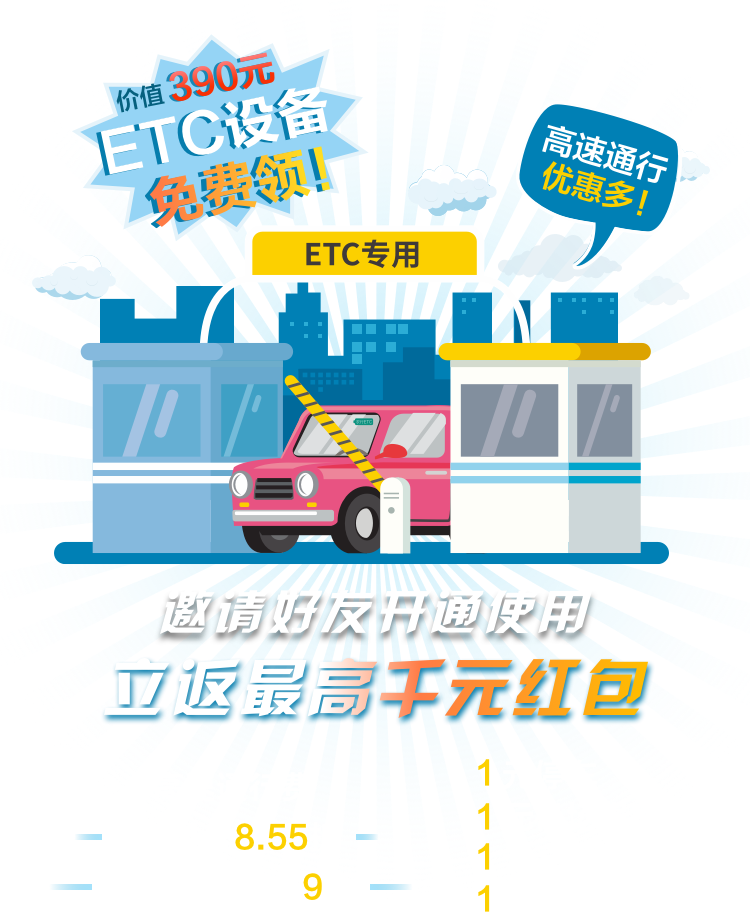
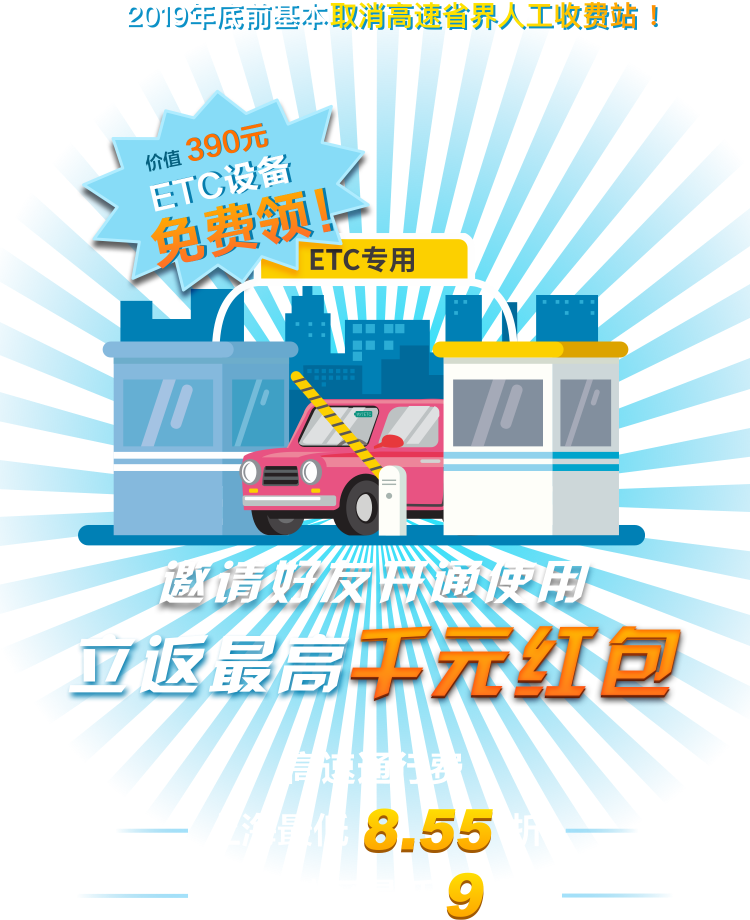
6.20

diff --git a/src/views/activity/obu.vue b/src/views/activity/obu.vue
@@ -1,10 +1,10 @@
 <template>
 <div class="obu" v-show="isFollow">
 	<div class="above">
-		<div class="msg">
-			2019年底前基本取消高速省界人工收费站！
-			<div>替换为ETC通道</div>
-		</div>
+		<!--<div class="msg">-->
+			<!--2019年底前<span>基本取消高速省界人工收费站！</span>-->
+			<!--<div>替换为ETC通道</div>-->
+		<!--</div>-->
 		<img src="~@/assets/img/obu/main.png"/>
 
 		<ul v-show="isWeixn">
@@ -276,7 +276,7 @@ export default {
 		>img{
 			width: 100%;
 			position: absolute;
-			top: 43%;
+			top: 40%;
 			left: 0;
 			transform: translateY(-50%);
 		}
@@ -298,7 +298,7 @@ export default {
 			overflow: hidden;
 			position: absolute;
 			left: 0;
-			bottom: 5%;
+			bottom: 10%;
 			li{
 				width: 50%;
 				float: left;
@@ -319,7 +319,7 @@ export default {
 		}
 		>p{
 			position: absolute;
-			bottom: 2%;
+			bottom: 4%;
 			left: 0;
 			width: 100%;
 			text-align: center;
@@ -344,7 +344,7 @@ export default {
 			line-height: 24px;
 			padding: 0 6px 0 10px;
 			right: 0;
-			bottom: 44.5%;
+			top: 46%;
 		}
 	}
 	.detail{
